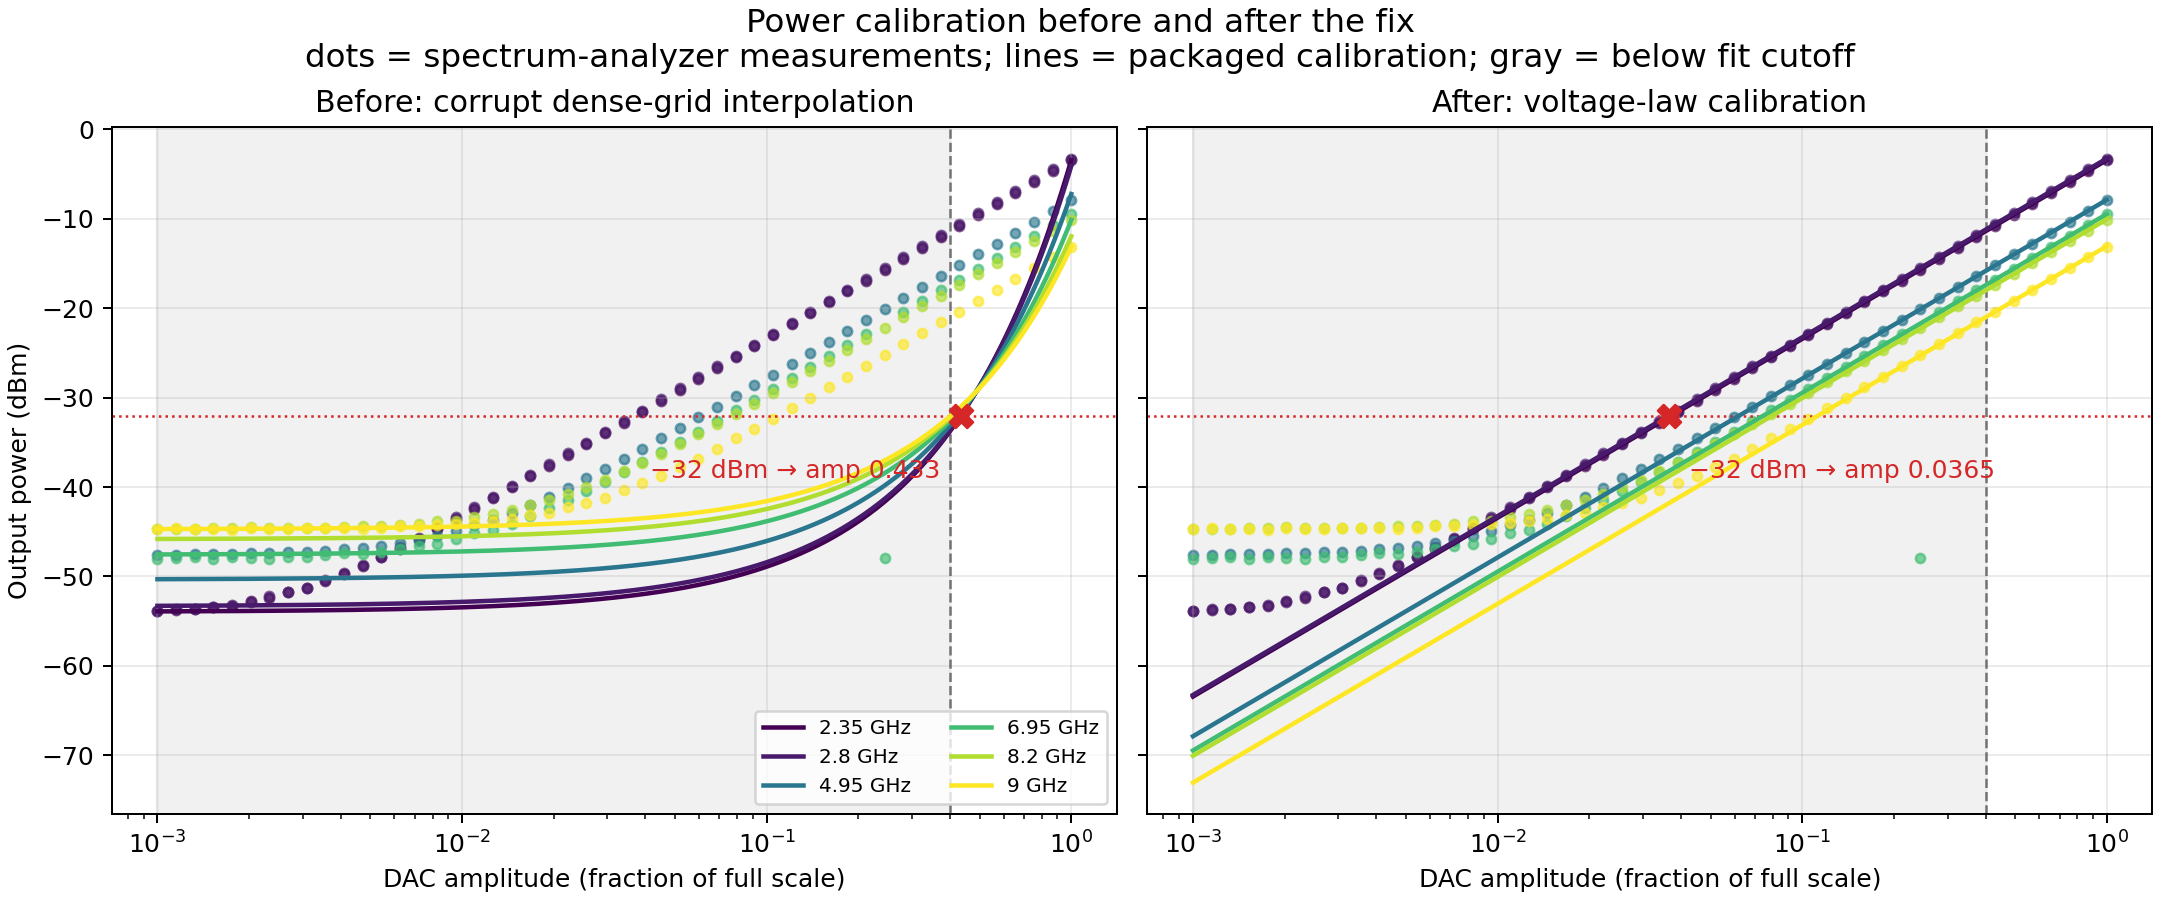
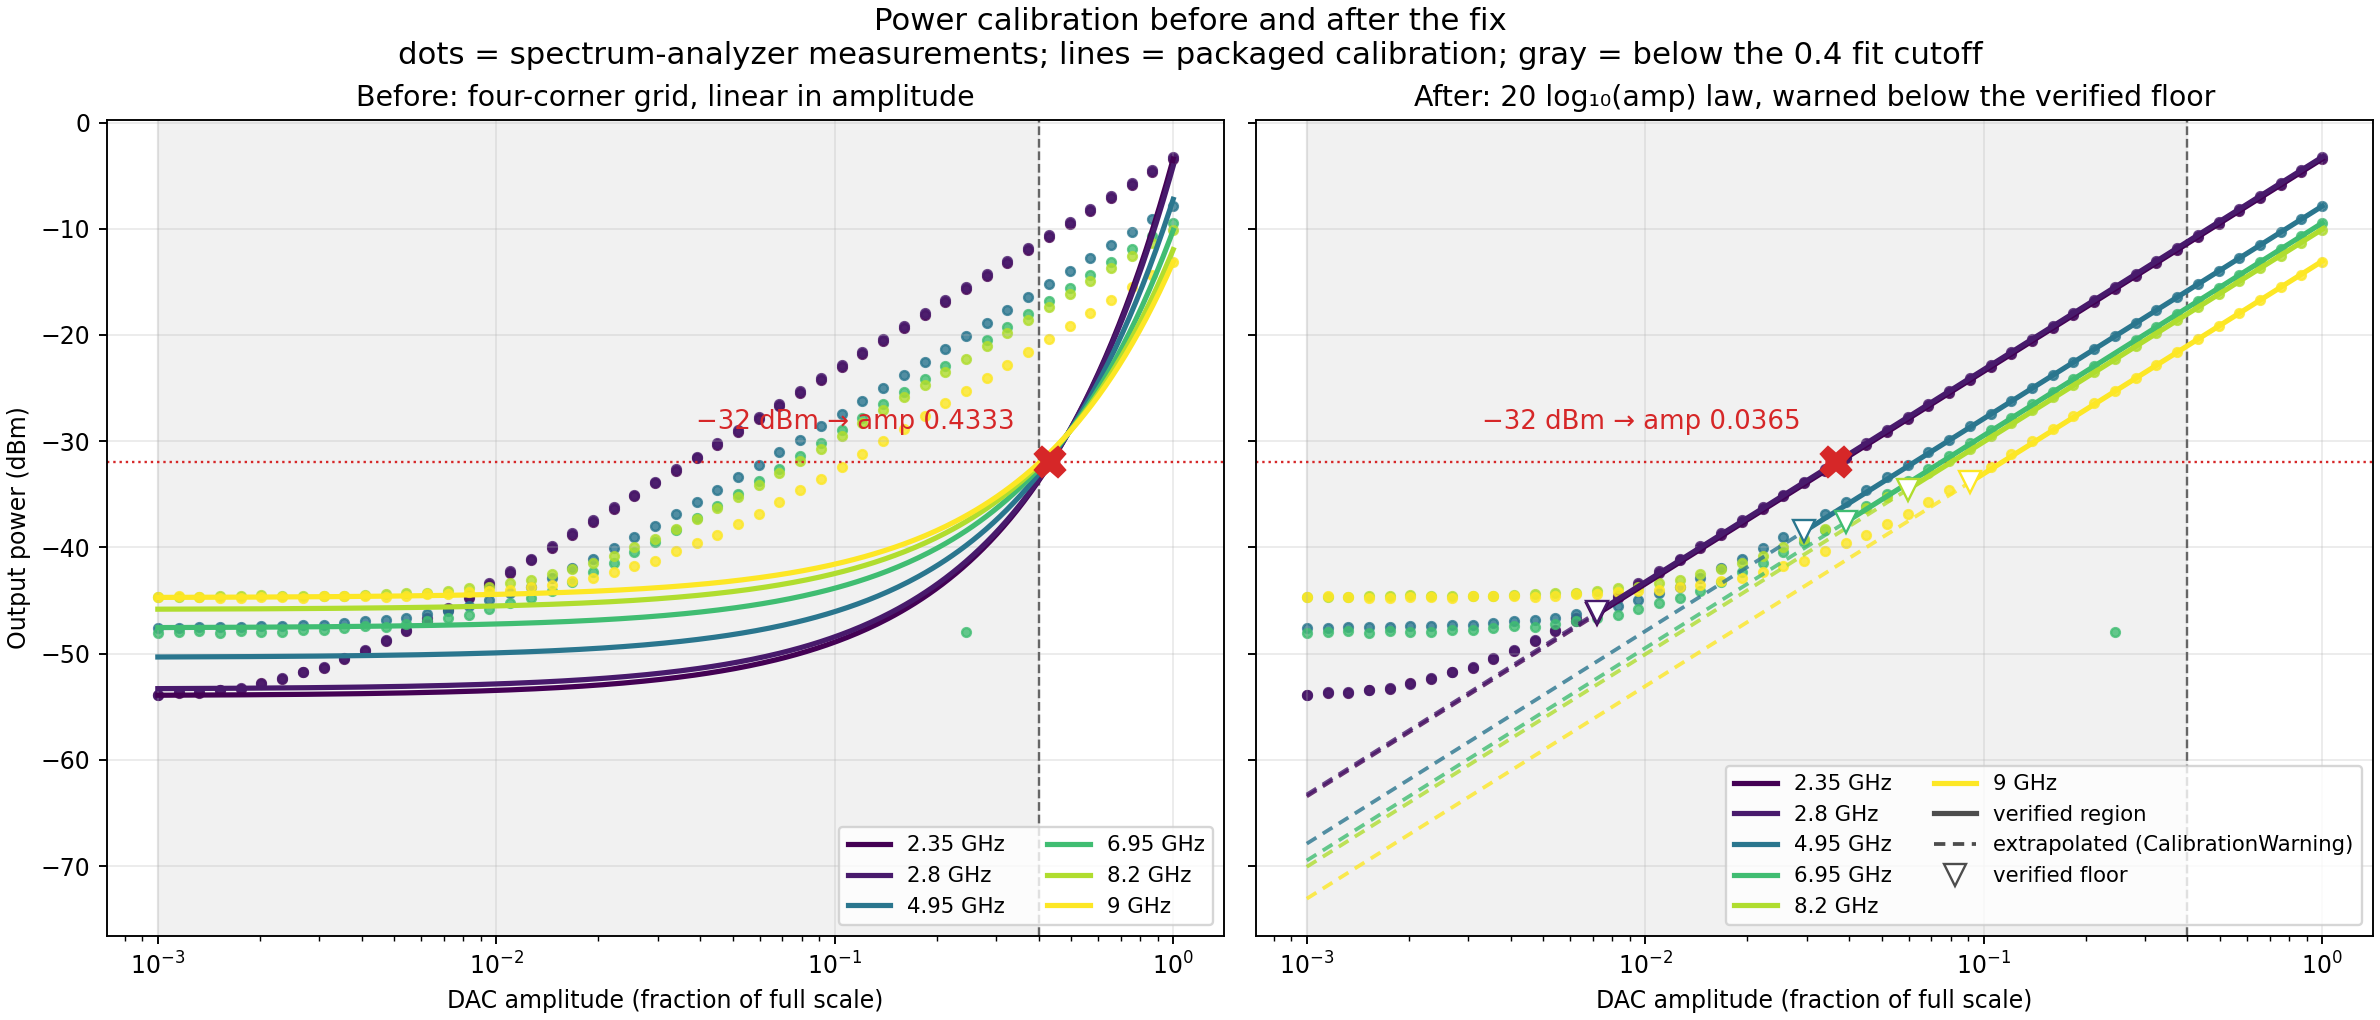
Redraw the before/after calibration figure for the floor-aware calibration
The right panel now draws each frequency solid above its verified floor,
dashed below it (where the conversions warn), with the floor marked. The
script that makes the figure is committed beside the builder so the figure
can be regenerated: python scripts/plot_power_calibration_before_after.py
<repo-root> docs/power_calibration_before_after.png (needs origin/main
fetched, for the old grid).

diff --git a/scripts/plot_power_calibration_before_after.py b/scripts/plot_power_calibration_before_after.py
@@ -1,0 +1,70 @@
+import csv, io, subprocess, sys, warnings, importlib.util
+from collections import defaultdict
+from pathlib import Path
+import numpy as np
+import matplotlib; matplotlib.use("Agg")
+import matplotlib.pyplot as plt
+from matplotlib.colors import Normalize
+from matplotlib.lines import Line2D
+from scipy.interpolate import RegularGridInterpolator
+from scipy.optimize import brentq
+
+W = Path(sys.argv[1]); OUT = Path(sys.argv[2])
+# --- old calibration exactly as main loaded it
+old = np.load(io.BytesIO(subprocess.check_output(["git", "show", "origin/main:daq/calibrations/power_calibration.npz"])))
+f_grid, a_grid, Z = old["f_grid"], old["a_grid"], old["Z"]
+mono = lambda M: np.all(np.diff(M, axis=1) >= 0) or np.all(np.diff(M, axis=1) <= 0)
+if not mono(Z): Z = Z.T
+old_interp = RegularGridInterpolator((f_grid, a_grid), Z, method="linear")
+old_p = lambda f, a: old_interp(np.column_stack([np.full_like(a, f), a]))
+old_amp_32 = brentq(lambda a: old_p(2.8, np.array([a]))[0] + 32.0, 0.001, 1.0)
+# --- new calibration from the branch
+spec = importlib.util.spec_from_file_location("cal", W / "daq" / "calibrations" / "__init__.py")
+cal = importlib.util.module_from_spec(spec); spec.loader.exec_module(cal)
+with warnings.catch_warnings():
+    warnings.simplefilter("ignore", cal.CalibrationWarning)
+    new_amp_32 = cal.power_dbm_to_amp(2.8, -32.0)
+# --- measurements
+meas = defaultdict(list)
+for p in sorted((W / "daq" / "calibrations" / "source_data").glob("*combined*.csv")):
+    for r in csv.DictReader(p.open(newline="", encoding="utf-8-sig")):
+        meas[float(r["freq_ghz"])].append((float(r["amp"]), float(r["power_dbm"])))
+
+freqs = [2.35, 2.8, 4.95, 6.95, 8.2, 9.0]
+cmap = plt.colormaps["viridis"]; norm = Normalize(2.35, 9.0)
+amps = np.logspace(-3, 0, 300)
+fig, (ax0, ax1) = plt.subplots(1, 2, figsize=(14, 6), sharey=True, constrained_layout=True)
+for ax in (ax0, ax1):
+    ax.axvspan(1e-3, 0.4, color="0.85", alpha=0.35, zorder=0)
+    ax.axvline(0.4, color="0.4", linestyle="--", linewidth=1)
+    ax.axhline(-32, color="tab:red", linestyle=":", linewidth=1)
+    ax.set_xscale("log"); ax.grid(alpha=0.25)
+    ax.set_xlabel("DAC amplitude (fraction of full scale)")
+for f in freqs:
+    c = cmap(norm(f)); pts = np.array(sorted(meas[f]))
+    ax0.scatter(pts[:, 0], pts[:, 1], s=14, color=c, alpha=0.8)
+    ax1.scatter(pts[:, 0], pts[:, 1], s=14, color=c, alpha=0.8)
+    ax0.plot(amps, old_p(f, amps), color=c, linewidth=2.2, label=f"{f:g} GHz")
+    floor = cal.min_verified_amp(f)
+    with warnings.catch_warnings():
+        warnings.simplefilter("ignore", cal.CalibrationWarning)
+        p_new = cal.amp_to_power_dbm(f, amps)
+    hi = amps >= floor
+    ax1.plot(amps[hi], p_new[hi], color=c, linewidth=2.2, label=f"{f:g} GHz")
+    ax1.plot(amps[~hi], p_new[~hi], color=c, linewidth=1.6, linestyle=(0, (3, 2)), alpha=0.8)
+    ax1.plot([floor], [cal.amp_to_power_dbm(f, floor)], marker="v", markersize=9,
+             markerfacecolor="white", markeredgecolor=c, linestyle="none", zorder=5)
+for ax, a32, txt in ((ax0, old_amp_32, f"−32 dBm → amp {old_amp_32:.4f}"), (ax1, new_amp_32, f"−32 dBm → amp {new_amp_32:.4f}")):
+    ax.plot([a32], [-32], marker="X", markersize=13, color="tab:red", zorder=6)
+    ax.annotate(txt, (a32, -32), xytext=(-150, 14), textcoords="offset points", color="tab:red", fontsize=11)
+ax0.set_ylabel("Output power (dBm)")
+ax0.set_title("Before: four-corner grid, linear in amplitude")
+ax1.set_title("After: 20 log₁₀(amp) law, warned below the verified floor")
+ax0.legend(fontsize=9, ncol=2, loc="lower right")
+extra = [Line2D([], [], color="0.3", linewidth=2.2, label="verified region"),
+         Line2D([], [], color="0.3", linewidth=1.6, linestyle=(0, (3, 2)), label="extrapolated (CalibrationWarning)"),
+         Line2D([], [], marker="v", markerfacecolor="white", markeredgecolor="0.3", linestyle="none", markersize=9, label="verified floor")]
+ax1.legend(handles=ax1.get_legend_handles_labels()[0] + extra, fontsize=9, ncol=2, loc="lower right")
+fig.suptitle("Power calibration before and after the fix\n"
+             "dots = spectrum-analyzer measurements; lines = packaged calibration; gray = below the 0.4 fit cutoff", fontsize=13)
+fig.savefig(OUT, dpi=170); print("wrote", OUT, "old amp", old_amp_32, "new amp", new_amp_32)
